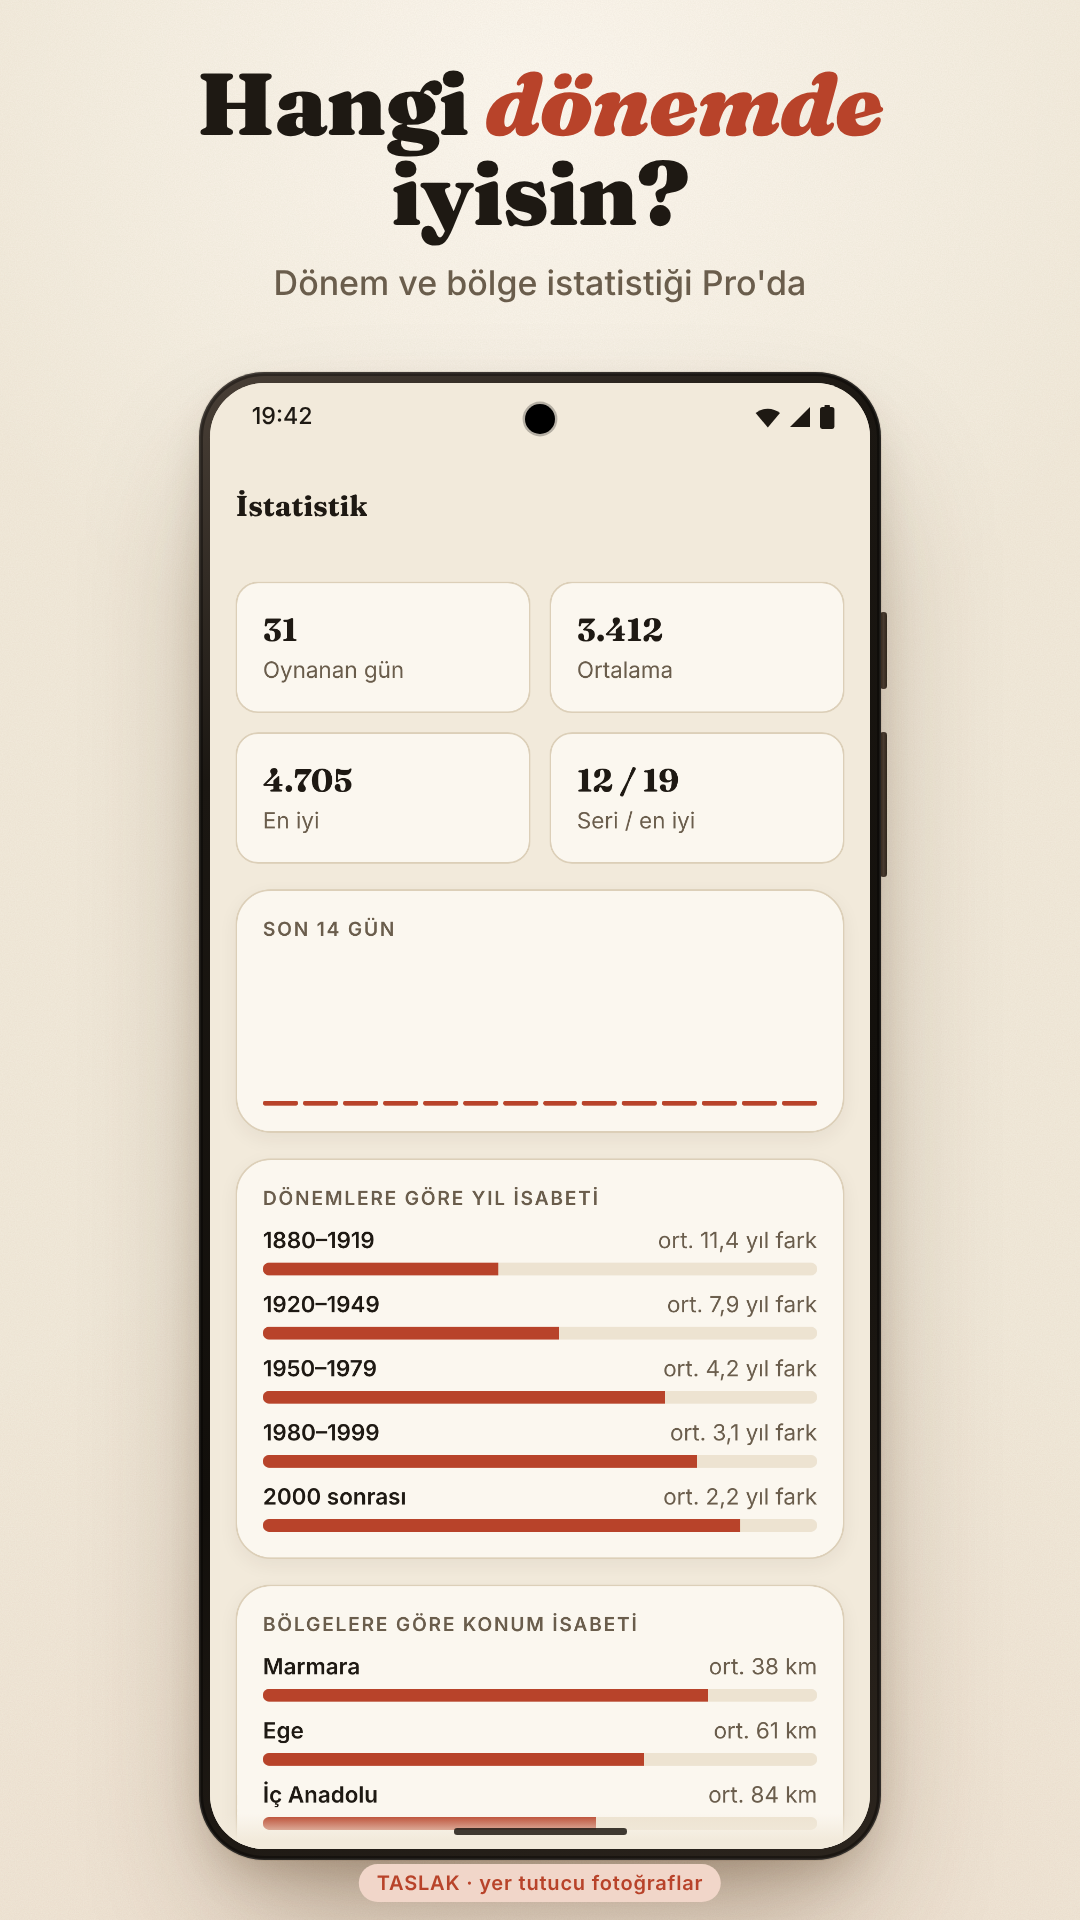
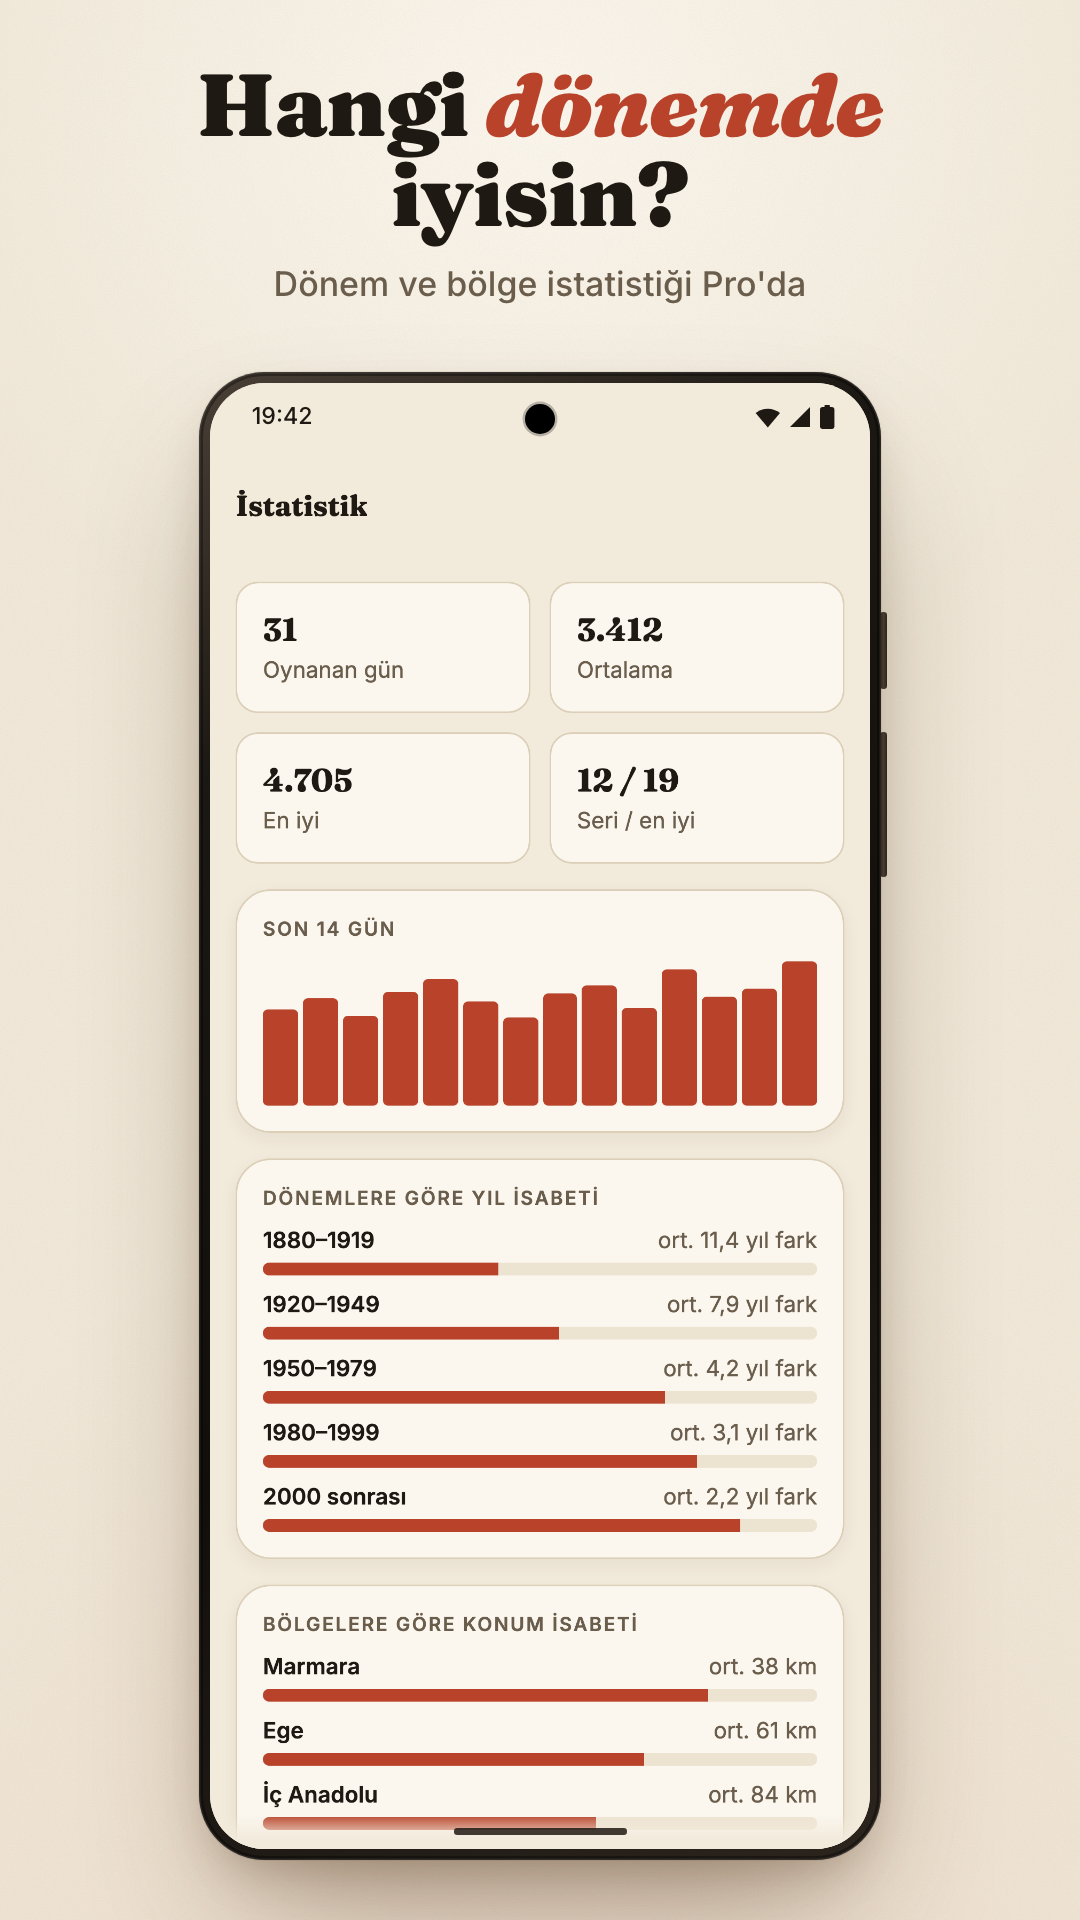
Mağaza ekran görüntüleri gerçek fotoğraflarla; pool-a3 tekrarı çıkarıldı

diff --git a/store/screenshots/captions.md b/store/screenshots/captions.md
@@ -32,7 +32,7 @@ Bu tablo `render.mjs` tarafından okunur: başlığı burada değiştirip `rende
 ## Yeniden üretme
 
 ```bash
-node store/screenshots/prepare.mjs            # künyeler + (yoksa) yer tutucu fotoğraflar → app/public/demo/
+node store/screenshots/prepare.mjs --download # gerçek fotoğrafları Commons'tan indirir (2000 px'e küçültür) + künyeler → app/public/demo/
 (cd app && EXPO_PUBLIC_DEMO=1 npx expo export --platform web --output-dir ../store/screenshots/.build)
 node store/screenshots/render.mjs store/screenshots/.build          # → store/screenshots/out/
 node store/screenshots/render.mjs store/screenshots/.build --dark   # isteğe bağlı karanlık set → out/*-dark/
@@ -45,5 +45,22 @@ Demo ekranlarını tarayıcıda gezmek için derlemeyi herhangi bir tek sayfa su
 Ekran adresine `demo_scroll=<metin>` eklenirse render.mjs o metni içeren kartı ekranın üstüne kaydırır.
 
 `fixtures.json`'daki fotoğrafların hepsinde `commons_url` doluysa CI (`.github/workflows/screenshots.yml`) gerçek fotoğrafları
-indirir, görselleri üretir ve `store/screenshots/out/`'u aynı dala commit'ler. Yer tutucu fotoğraflı yerel taslaklarda
-alt kenarda "TASLAK" etiketi çıkar; bunlar mağazaya yüklenmez.
+indirir, görselleri üretir ve `store/screenshots/out/`'u aynı dala commit'ler. `commons_url`'si boş bir fotoğraf varsa
+(yer tutucu) yerel çıktılarda alt kenarda "TASLAK" etiketi çıkar; bunlar mağazaya yüklenmez.
+
+## Demo fotoğrafları (fixtures.json)
+
+Altısı da oyunda canlı, incelenmiş fotoğraflar (`pipeline/selection/*.json`, günlük/düello havuzu); `pipeline_key` alanı
+kaynağı gösterir. 3. fotoğraf 01/02 ekranında ve öne çıkan görselde, 6. fotoğraf 1v1 ekranında kullanılır.
+
+| # | Yıl | Yer | Fotoğraf · lisans |
+| --- | --- | --- | --- |
+| 1 | 1893 | Kadifekale eteği, İzmir | André Salles · Kamu malı |
+| 2 | 1929 | İkinci TBMM Binası (Ulus), Ankara | Bilinmeyen fotoğrafçı · Kamu malı |
+| 3 | 1965 | Eminönü İskelesi, İstanbul | Fortepan / Krasznai Gyula · CC BY-SA 3.0 |
+| 4 | 1992 | Eski Halfeti, Şanlıurfa | Volker Höhfeld · CC BY-SA 4.0 |
+| 5 | 2018 | Safranbolu, Karabük | Ray Swi-hymn · CC BY-SA 2.0 |
+| 6 | 1976 | Ağrı Dağı, Iğdır | Gerd Eichmann · CC BY-SA 4.0 |
+
+Öne çıkan görselde (feature-graphic.png) künye alanı yok: 3. fotoğrafın künyesi Google Play açıklamasının sonundaki
+"Fotoğraf künyeleri" satırına yazılmalı (CC BY-SA 3.0 atıf ister).
